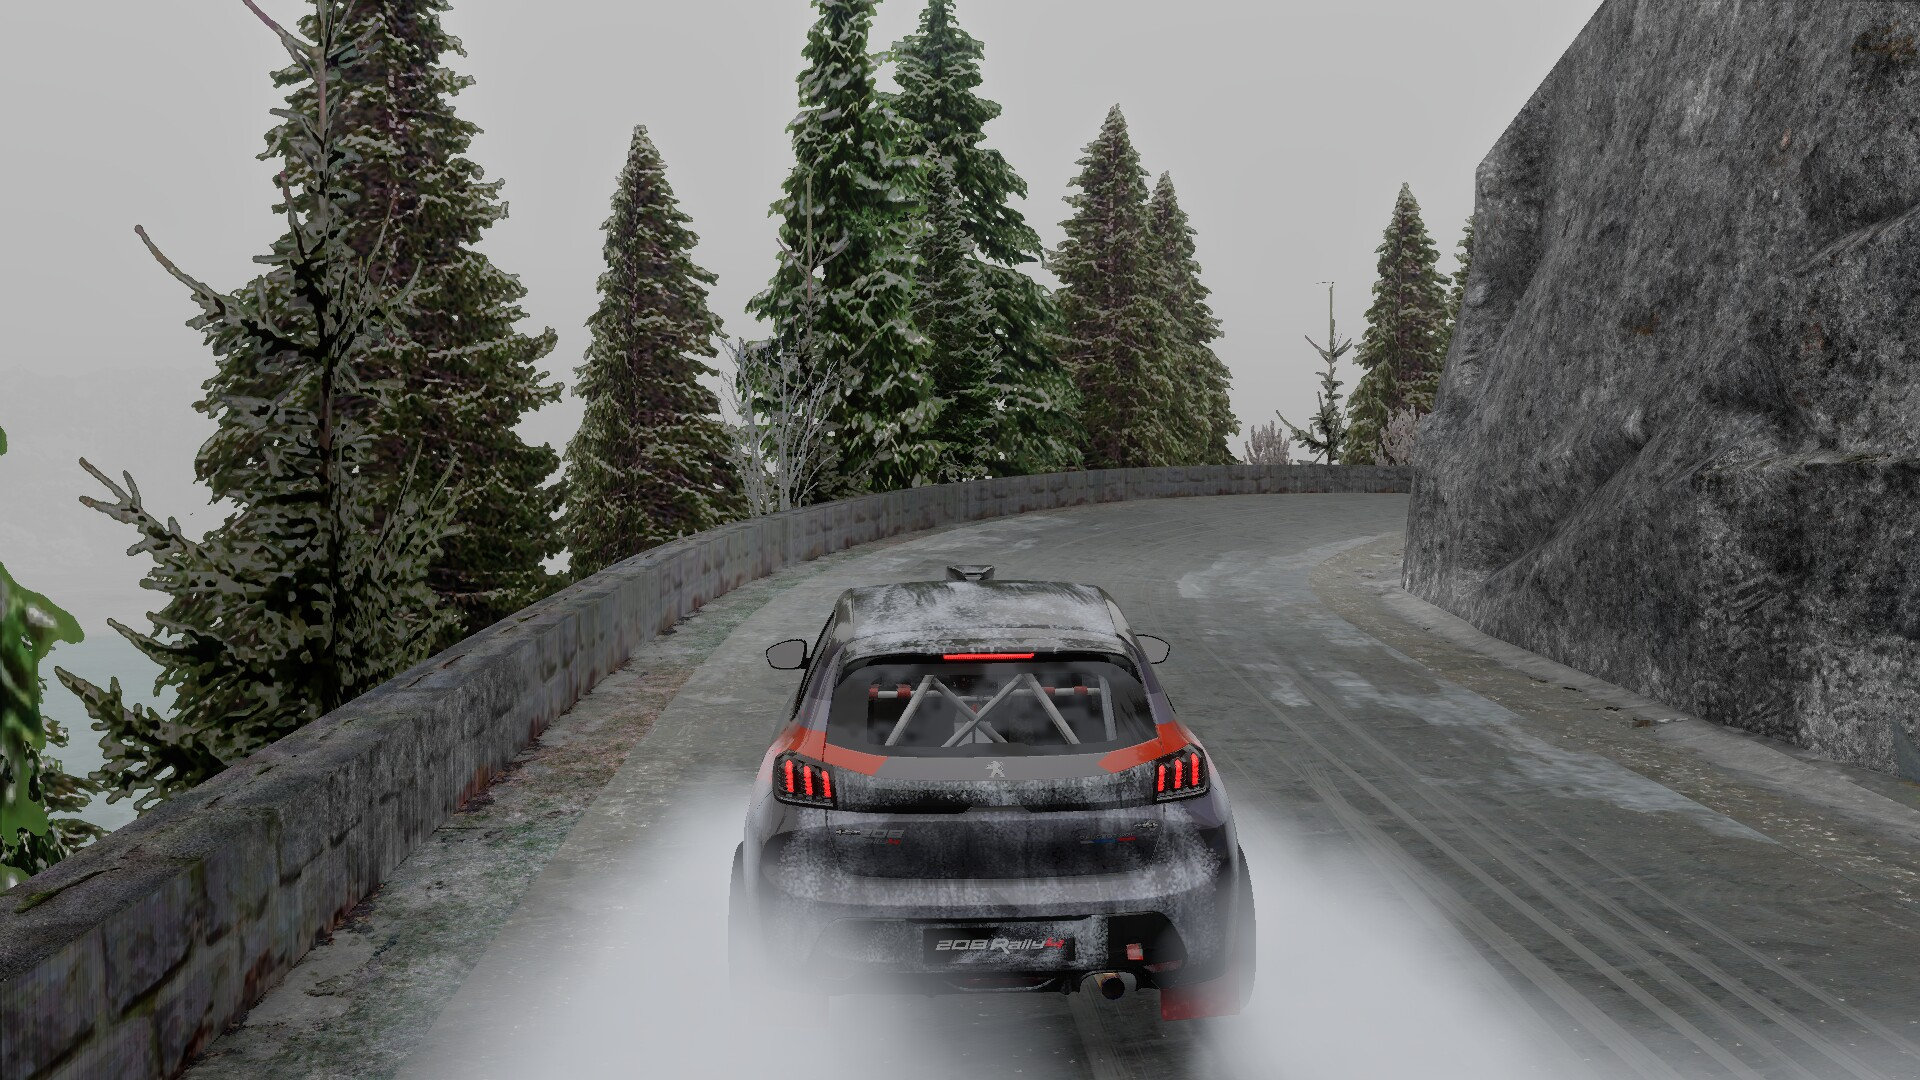
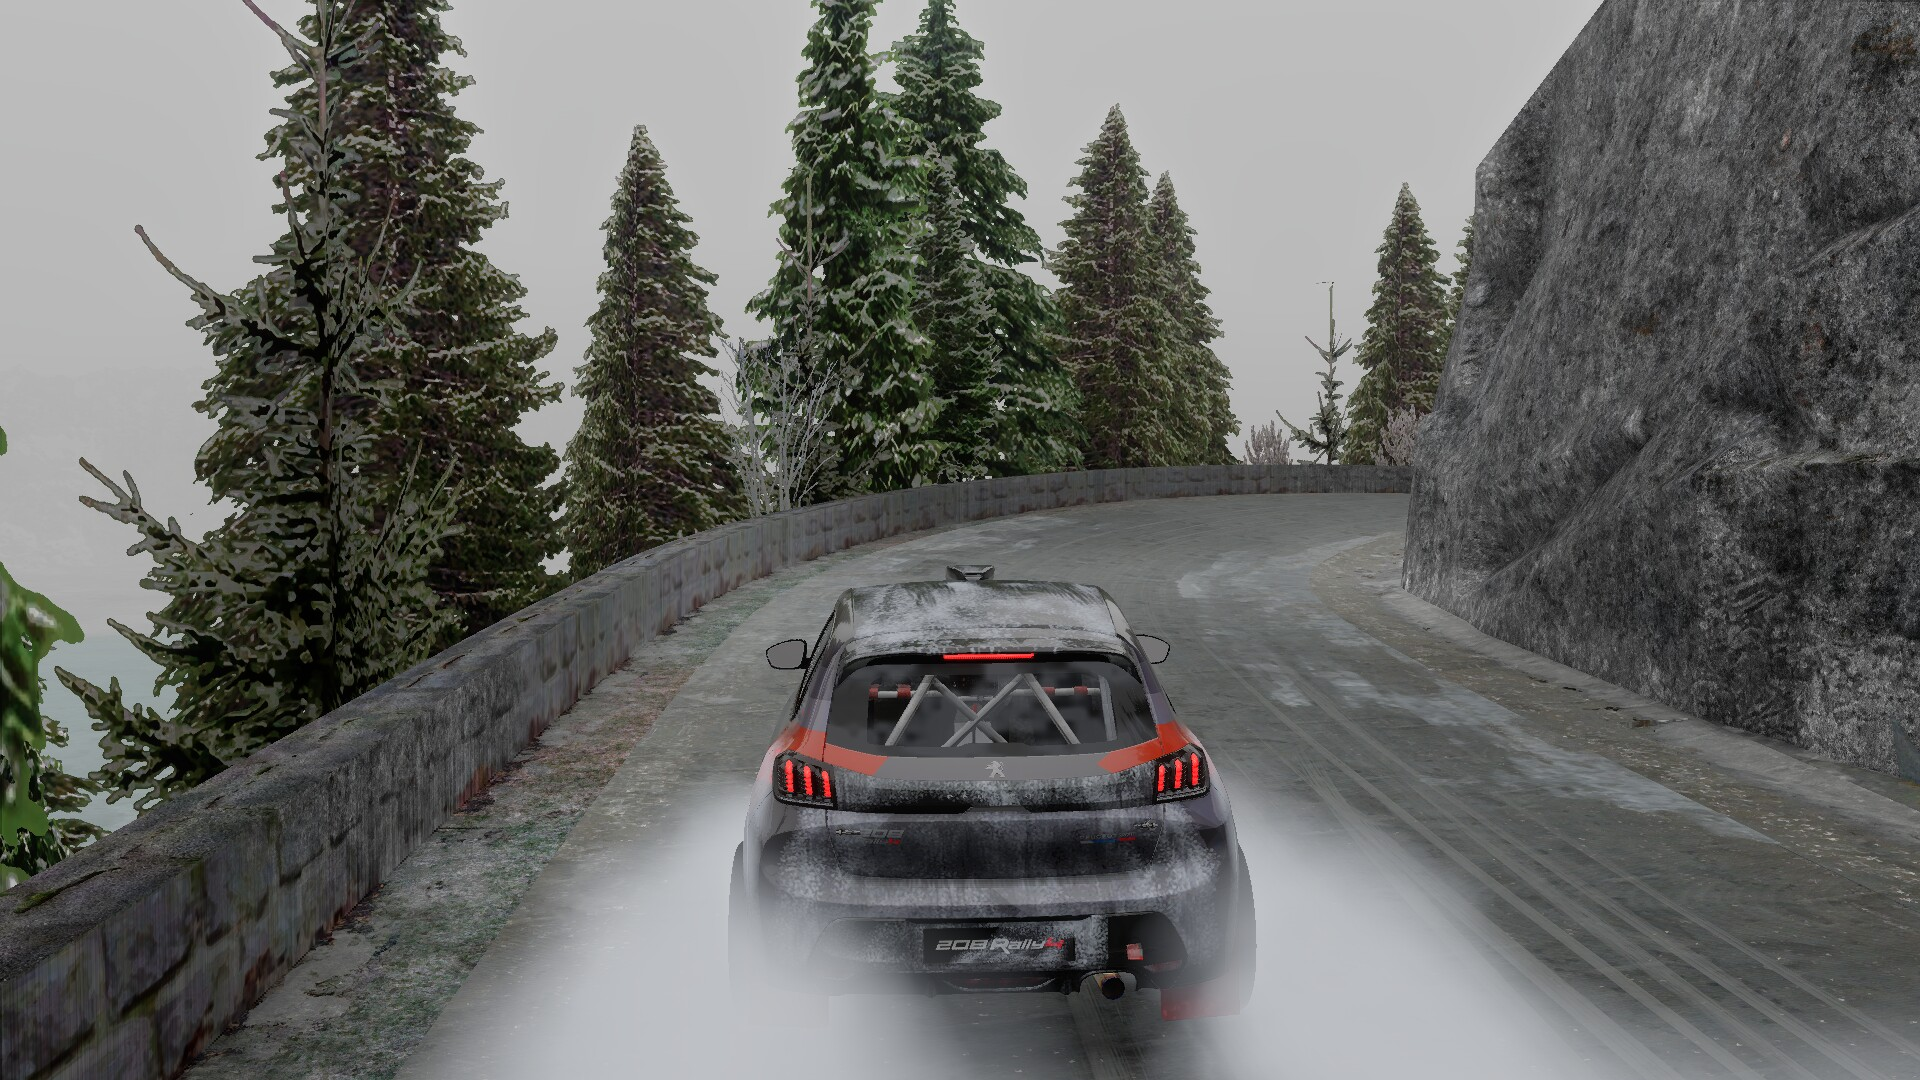
Windscreen mud specks: stage dust colour, smaller with droplets, hidden behind printed bands

diff --git a/crates/rbr-render/src/glass/mod.rs b/crates/rbr-render/src/glass/mod.rs
@@ -75,6 +75,9 @@ const STRETCH: f32 = 6.0;
 const MUD_INSIDE: f32 = 0.2;
 /// Ours: thrown snow lets the light through, so seen from inside it keeps more of its colour.
 const SNOW_INSIDE: f32 = 0.75;
+/// Ours: a mud speck's quad spans this many times its radius, for the droplets around it (`SPLAT_REACH` in
+/// `glass.wgsl`).
+const SPLAT_REACH: f32 = 2.6;
 
 /// The windscreen's chart: its mean plane (`origin`, `axes` across, up and out), the glass's height over it on a
 /// grid (`None` off the glass), and its triangles (the chart's x and y, the height in z) and outline in the chart.
@@ -583,6 +586,8 @@ pub struct Drawn {
     last: Option<(usize, u32)>,
     /// The car's acceleration the water feels, physics frame ([`felt_acceleration`]).
     felt: Vec3,
+    /// The stage's dust colour, which tints the mud specks ([`mud_color`]).
+    dust: [f32; 3],
 }
 
 impl Drawn {
@@ -592,7 +597,8 @@ impl Drawn {
     }
 
     /// The glass of car `name` in `precipitation`, with the wiper meshes found among `playback`'s interior parts and
-    /// what its windows' faces let through, `tints`. `None` (reported on stderr) when the car has no windscreen part.
+    /// what its windows' faces let through, `tints`, its mud of the stage's `dust` colour
+    /// ([`crate::particles::wheel_spray::dust`]). `None` (reported on stderr) when the car has no windscreen part.
     /// The wipers start at `switch`; `playback` turns their meshes ([`Playback::set_turning`]).
     pub fn load(
         data: &Data,
@@ -601,6 +607,7 @@ impl Drawn {
         playback: &mut Playback,
         switch: Switch,
         tints: &Tints,
+        dust: [f32; 3],
     ) -> Option<Drawn> {
         let car = CarGlass::load(data, name).map_err(|e| eprintln!("glass: {e}")).ok()?;
         let [lo, hi] = car.windscreen.bounds;
@@ -657,6 +664,7 @@ impl Drawn {
             sides,
             last: None,
             felt,
+            dust,
         })
     }
 
@@ -774,15 +782,17 @@ impl Drawn {
         // The film's streaks along the airflow, longer with speed: up the windscreen, back along the side windows.
         let streak = 1.0 + (Vec3::from(playback.sample().car.velocity).length() / FILM_STREAK_SPEED).min(2.0);
         let [across, up, _] = outside.unwrap_or(w).axes.map(|a| to_stage.transform_vector3(a));
-        let mut drops = pane_drops(&self.glass, w, outside, to_stage, streak, lit);
-        for (side, glass) in self.car.sides.iter().zip(&self.sides) {
+        // Seen from inside, the mud behind a sun strip or the black band printed on the glass is hidden.
+        let inside = |k: usize| outside.is_none().then(|| &self.corners[k].1[..]);
+        let mut drops = pane_drops(&self.glass, w, outside, to_stage, streak, lit, self.dust, inside(0));
+        for (k, (side, glass)) in self.car.sides.iter().zip(&self.sides).enumerate() {
             // Outside, on the exterior pane over it, when the car has one.
             let on = match outside {
                 Some(_) => side.outside.as_ref().map(Some),
                 None => Some(None),
             };
             if let Some(on) = on {
-                drops.extend(pane_drops(glass, &side.inside, on, to_stage, -streak, lit));
+                drops.extend(pane_drops(glass, &side.inside, on, to_stage, -streak, lit, self.dust, inside(k + 1)));
             }
         }
         // The snow each blade carries, along its edge at its angle.
@@ -825,7 +835,10 @@ impl Drawn {
 
 /// The drops, film and mud of one pane's `glass` at the current frame, stage space (`to_stage` from the car's model),
 /// on its chart `w` inside, or on `outside` at the points over `w`'s. `streak` is the film's streak length, up the
-/// pane, or along it when negative. `lit`: the mud seen from inside lets the outside's light through (kind 5).
+/// pane, or along it when negative. `lit`: the mud seen from inside lets the outside's light through (kind 5). The mud
+/// takes the stage's `dust` colour ([`mud_color`]); `tints`, inside, what the pane's glass lets through over its film
+/// ([`Tints::film_tints`]), which hides the mud behind its printed bands.
+#[allow(clippy::too_many_arguments)]
 fn pane_drops(
     glass: &Glass,
     w: &Windscreen,
@@ -833,6 +846,8 @@ fn pane_drops(
     to_stage: Mat4,
     streak: f32,
     lit: bool,
+    dust: [f32; 3],
+    tints: Option<&[f32]>,
 ) -> Vec<gpu::Drop> {
     let place = |at: Vec2, lift: f32| match outside {
         Some(o) => o.point(o.chart(w.point(at, 0.0)), lift),
@@ -912,6 +927,9 @@ fn pane_drops(
             let side = Vec2::new(-along.y, along.x);
             let to = |c: Vec2| across * c.x + up * c.y;
             (to(side) * d.radius, to(along) * d.radius * (1.0 + run * STRETCH))
+        } else if d.kind == Kind::Mud {
+            // The speck's droplets around it (`splat` in `glass.wgsl`).
+            (across * d.radius * SPLAT_REACH, up * d.radius * SPLAT_REACH)
         } else {
             (across * d.radius, up * d.radius)
         };
@@ -924,8 +942,8 @@ fn pane_drops(
                     (None, false) => (if lit { 5.0 } else { 3.0 }, MUD_INSIDE),
                     (None, true) => (3.0, SNOW_INSIDE),
                 };
-                let [r, g, b] = model::speck_color(d.left).map(|c| c * shade);
-                (kind, 1.0, [r, g, b, 1.0])
+                let [r, g, b] = mud_color(d.left, dust).map(|c| c * shade);
+                (kind, tints.map_or(1.0, |t| hidden(through_at(glass, t, d.at))), [r, g, b, 1.0])
             }
             Kind::Snow => (1.0, 0.5 + 0.5 * d.left, [0.95, 0.96, 1.0, 1.0]),
             Kind::Bug => {
@@ -949,6 +967,33 @@ fn pane_drops(
         }
     }));
     drops
+}
+
+/// A mud speck's colour by its colour index ([`model::speck_color`]): mud's tinted by the stage's `dust` against the
+/// neutral dust (as the car's dirt, [`crate::dirt::CarDirt::look`]), snow's as it is.
+fn mud_color(index: f32, dust: [f32; 3]) -> [f32; 3] {
+    let colour = model::speck_color(index);
+    if model::is_snow(index) {
+        return colour;
+    }
+    let neutral = crate::particles::wheel_spray::NEUTRAL_DUST;
+    std::array::from_fn(|k| (colour[k] * dust[k] / neutral[k]).min(1.0))
+}
+
+/// How much of a speck shows inside behind glass that lets `through` through: all of it over the clear glass, none
+/// behind the printed bands.
+fn hidden(through: f32) -> f32 {
+    let t = ((through - 0.1) / 0.3).clamp(0.0, 1.0);
+    t * t * (3.0 - 2.0 * t)
+}
+
+/// What a pane's glass lets through at chart point `at`: the nearest of its film's `tints` ([`Tints::film_tints`]).
+fn through_at(glass: &Glass, tints: &[f32], at: Vec2) -> f32 {
+    let [columns, rows] = model::FILM_CELLS.map(|n| n * gpu::PANE_TINTS);
+    let (lo, hi) = (glass.film_corner(0, 0), glass.film_corner(model::FILM_CELLS[0], model::FILM_CELLS[1]));
+    let t = ((at - lo) / (hi - lo)).clamp(Vec2::ZERO, Vec2::ONE);
+    let (column, row) = ((t.x * columns as f32).round() as usize, (t.y * rows as f32).round() as usize);
+    tints.get(row * (columns + 1) + column).copied().unwrap_or(1.0)
 }
 
 /// The cells of one pane's chart `w` (its `glass`'s film cells) on the glass, stage space, for the pane seen from

diff --git a/crates/rbr-render/src/glass/model.rs b/crates/rbr-render/src/glass/model.rs
@@ -120,7 +120,7 @@ pub const PAUSE: f32 = 2.0;
 /// and heavy rain wipe continuously, snow always does.
 pub const DRIZZLE_MOST: f32 = 0.6;
 /// The specks of mud from which the automatic wipers clear the dry glass (ours).
-pub const MUD_WIPE: usize = 300;
+pub const MUD_WIPE: usize = 600;
 
 /// The wiper switch (ours: the launcher's setting and the wiper key; the 1.02 control is not traced).
 #[derive(Debug, Clone, Copy, PartialEq, Eq, Default)]
@@ -247,10 +247,11 @@ const BUG_RADIUS: [f32; 2] = [0.004, 0.007];
 const BUG_SPEEDS: [f32; 2] = [25.0 / 3.6, 75.0 / 3.6];
 /// Bugs per second at the medium speed and over (ours).
 const BUG_RATE: f32 = 0.25;
-/// Mud specks (ours): the radius, and the specks per unit of spray mass that reach the glass at [`MUD_SPEED`] and
-/// over (fewer below it, none standing).
-const MUD_RADIUS: [f32; 2] = [0.002, 0.007];
-const MUD_PER_MASS: f32 = 0.01;
+/// Mud specks (ours): the radius, most a few millimetres (fine spray dries to small dots; `splat` in `glass.wgsl` adds
+/// the droplets around each), and the specks per unit of spray mass that reach the glass at [`MUD_SPEED`] and over
+/// (fewer below it, none standing).
+const MUD_RADIUS: [f32; 2] = [0.001, 0.005];
+const MUD_PER_MASS: f32 = 0.02;
 const MUD_SPEED: f32 = 20.0;
 /// Mud's colours (ours: drying gravel mud, lighter than the paint's dirt colour in `shader.wgsl`).
 const MUD_COLORS: [[f32; 3]; 4] = [[0.52, 0.45, 0.34], [0.45, 0.38, 0.27], [0.58, 0.52, 0.41], [0.40, 0.33, 0.23]];
@@ -617,7 +618,7 @@ impl Glass {
     /// One drop of a wet road's spray thrown at the glass: water, as rain's.
     fn splash(&mut self, inside: &impl Fn(Vec2) -> bool) {
         let at = self.sprayed_at();
-        let radius = RAIN_RADIUS[0] + (RAIN_RADIUS[1] - RAIN_RADIUS[0]) * self.rng.unit().powi(3);
+        let radius = RAIN_RADIUS[0] + (RAIN_RADIUS[1] - RAIN_RADIUS[0]) * self.rng.unit().powi(2);
         let seed = self.rng.unit();
         if inside(at) {
             self.drops.push(Drop {
@@ -1222,9 +1223,11 @@ mod tests {
     fn a_jump_leaves_the_mud_the_wipers_would_have() {
         assert_eq!(settled_mud(-5.0), 0);
         assert_eq!(settled_mud(120.7), 120);
-        assert_eq!(settled_mud(MUD_WIPE as f32), 105);
-        assert_eq!(settled_mud(MUD_WIPE as f32 + 194.0), 299);
-        assert_eq!(settled_mud(MUD_WIPE as f32 + 195.0), 105);
+        let smeared = (MUD_WIPE as f32 * MUD_SMEAR).round() as usize;
+        let refill = (MUD_WIPE - smeared) as f32;
+        assert_eq!(settled_mud(MUD_WIPE as f32), smeared);
+        assert_eq!(settled_mud(MUD_WIPE as f32 + refill - 1.0), MUD_WIPE - 1);
+        assert_eq!(settled_mud(MUD_WIPE as f32 + refill), smeared);
         let mut g = glass(Vec::new());
         g.spatter_all(Thrown { mud: 250.0 / MUD_PER_MASS, water: 1e6, ..Thrown::default() }, |at| at.x < 0.5);
         assert_eq!(g.mud(), 250, "specks off the glass are thrown again");

diff --git a/crates/rbr-render/src/bin/viewer/scene.rs b/crates/rbr-render/src/bin/viewer/scene.rs
@@ -410,7 +410,8 @@ fn load_scene<'scope, 'env>(
             }
             let glass = match (&mut playback, car_name) {
                 (Some(playback), Some(car)) => {
-                    glass::Drawn::load(data, car, precipitation, playback, args.wipers, &tints)
+                    let dust = particles.as_ref().map_or(particles::wheel_spray::NEUTRAL_DUST, |p| p.particles.dust());
+                    glass::Drawn::load(data, car, precipitation, playback, args.wipers, &tints, dust)
                 }
                 _ => None,
             };

diff --git a/crates/rbr-render/src/particles/mod.rs b/crates/rbr-render/src/particles/mod.rs
@@ -259,6 +259,11 @@ impl Particles {
         }))
     }
 
+    /// The wheel spray's dust colour ([`wheel_spray::dust`]).
+    pub fn dust(&self) -> [f32; 3] {
+        self.dust
+    }
+
     /// The weather's rain or snow.
     pub fn precipitation(&self) -> Option<Precipitation> {
         self.precipitation

diff --git a/notes/renderer.md b/notes/renderer.md
@@ -578,6 +578,11 @@ not ported.
 - Look (ours): mud specks are opaque (the HDR sky through a 5 % gap read as grey); with `cabin`, seen from inside, a speck's thin rim lets
   3 to 45 % of the light behind through in the mud's hue, its core dark (2026-10-27; glass pass 0.14 ms before and
   after, off frames byte-identical). Tried and dropped: a dashboard reflection in the windscreen (user's call).
+- Specks (ours, 2026-11-01; `splat` in `glass.wgsl`, `mud_color`, `hidden` in `glass/mod.rs`): mud specks take the
+  stage's dust colour against the neutral dust, as the car's dirt does (snow specks keep theirs); radius 1 to 5 mm
+  (was 2 to 7), twice as many a unit of spray, the auto wipers at 600; each a ragged blot thinning to its edge with up
+  to 4 fine droplets thrown up the glass around it. Seen from inside, a speck behind a sun strip or printed band is
+  hidden (what the glass lets through there, from 0.1 to 0.4).
 - Water redone (ours, 2026-10-31; `lens`, `film_cell`, `ribbon` in `glass.wgsl`; `flow`, `merge` in `model.rs`): a drop, bead or
   ribbon is clear water, not a white cap: it lays 0.85 (0.55 for a ribbon's weight) of a lens over what is drawn behind it
   (replacing the pixel left drops darker than the hazy glass), the frame seen mirrored through its centre 5x its offset,
